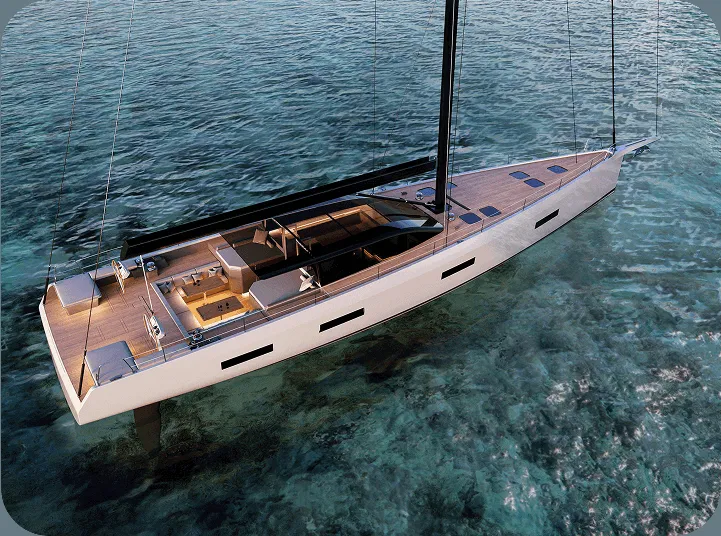
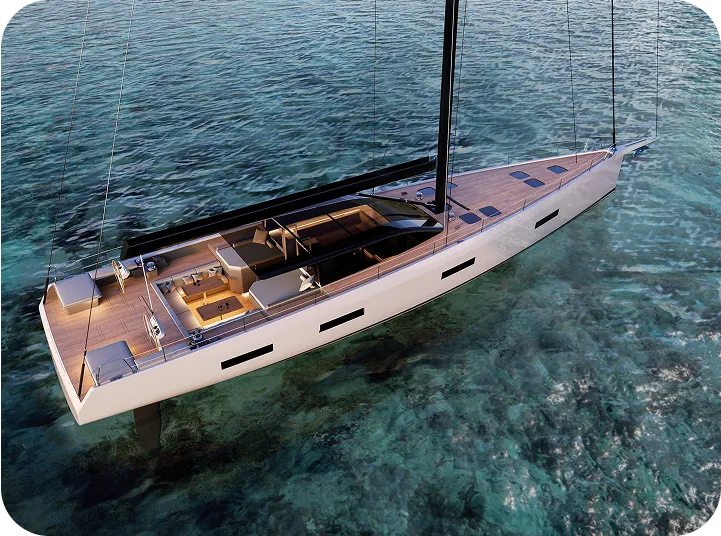
optmized some imgs frmt

diff --git a/src/partials/aboutus.html b/src/partials/aboutus.html
@@ -22,42 +22,34 @@
       <picture class="aboutus-image">
         <source
           srcset="
-
-            /img/aboutus-img/aboutus-m.png    1x,
-            /img/aboutus-img/aboutus-m@2x.png 2x
-
+            /img/aboutus-img/jacht-m.webp    1x,
+            /img/aboutus-img/jacht-m@2x.webp 2x
           "
           media="(max-width: 767px)"
         />
         <source
           srcset="
-
             /img/aboutus-img/jacht-tab.webp    1x,
             /img/aboutus-img/jacht-tab@2x.webp 2x
-
           "
           media="(max-width: 1279px)"
         />
         <source
-
           srcset="
             /img/aboutus-img/jacht-d.webp    1x,
             /img/aboutus-img/jacht-d@2x.webp 2x
           "
-
           media="(max-width: 1439px)"
         />
         <source
           srcset="
-
             /img/aboutus-img/jacht-desk.webp    1x,
             /img/aboutus-img/jacht-desk@2x.webp 2x
-
           "
           media="(min-width: 1440px)"
         />
         <img
-          src="/img/aboutus-img/aboutus-m.png"
+          src="/img/aboutus-img/jacht-m.webp"
           alt="yacht-at-night"
           class="yacht-img"
         />

diff --git a/src/partials/ouryachts.html b/src/partials/ouryachts.html
@@ -8,8 +8,8 @@
         <picture class="our-yachts-section-cart-img">
           <source
             srcset="
-              img/ouryachts/arrow-m.png    1x,
-              img/ouryachts/arrow-m@2x.png 2x
+              img/ouryachts/arrow-m.webp    1x,
+              img/ouryachts/arrow-m@2x.webp 2x
             "
             media="(max-width: 767px)"
           />
@@ -34,7 +34,7 @@
             "
             media="(min-width: 1440px)"
           />
-          <img src="img/ouryachts/arrow-m.png" alt="Arrow yacht" />
+          <img src="img/ouryachts/arrow-m.webp" alt="Arrow yacht" />
         </picture>
         <div class="our-yachts-section-cart-texts">
           <h3 class="our-yachts-section-cart-header">
